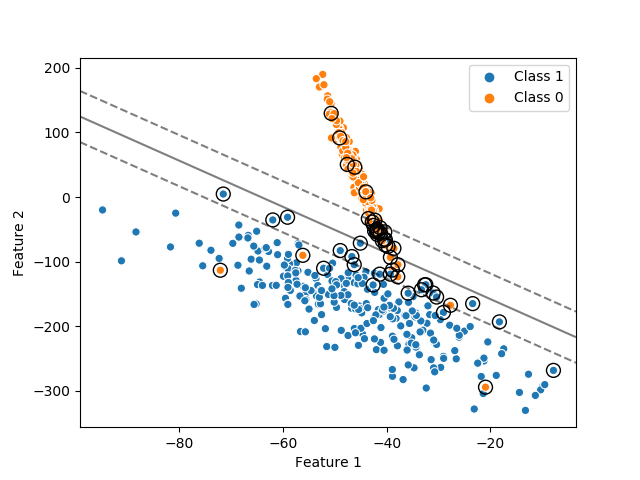
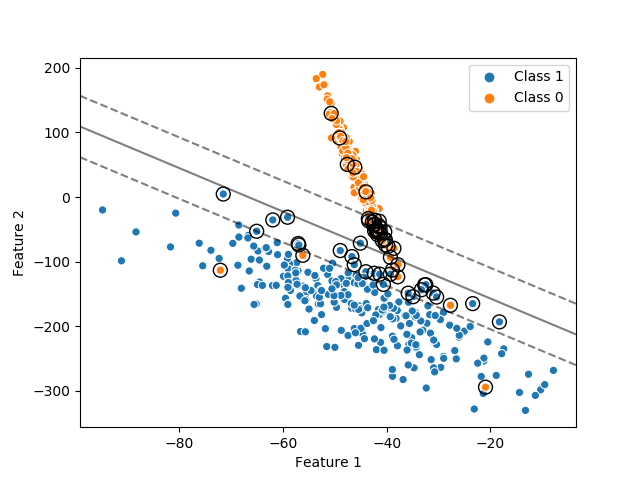
almost done with svm part 1

diff --git a/PA2/pa3_1.py b/PA2/pa3_1.py
@@ -67,6 +67,12 @@ acc_train_data1 = []
 acc_val_data1 = []
 acc_test_data1 = []
 
+# storing the best model parameters (C) and best model validation accuracy
+best_model_C_1 = 0
+best_val_acc_1 = 0
+best_svclassifier_1 = None
+best_sv_1 = None
+
 for i in range(len(C_vals)):
     # training an sklearn SVM using the data
     svclassifier = SVC(C=C_vals[i], kernel='linear')
@@ -79,39 +85,50 @@ for i in range(len(C_vals)):
 
     # finding the validation accuracies
     y_pred_v = svclassifier.predict(X_val)
-    acc_val_data1.append(accuracy(y_pred_v, y_val))
+    ac = accuracy(y_pred_v, y_val)
+    acc_val_data1.append(ac)
+
+    if (ac > best_val_acc_1):
+        best_val_acc_1 = ac
+        best_model_C_1 = C_vals[i]
+        best_svclassifier_1 = svclassifier
+        best_sv_1 = sv
 
     # finding the test accuracies
     y_pred_t = svclassifier.predict(X_test)
     acc_test_data1.append(accuracy(y_pred_t, y_test))
 
-    f = plt.figure()
-    sns.scatterplot(x=X_train[:, 0], y=X_train[:, 1], hue=list(map(getName,y_train)))
+f = plt.figure()
+sns.scatterplot(x=X_train[:, 0], y=X_train[:, 1], hue=list(map(getName,y_train)))
 
-    # getting the axes information of the plot
-    axes = plt.gca()
-    xlim = axes.get_xlim()
-    ylim = axes.get_ylim()
+# getting the axes information of the plot
+axes = plt.gca()
+xlim = axes.get_xlim()
+ylim = axes.get_ylim()
 
-    # creating a grid to help plot the decision function
-    xx = np.linspace(xlim[0], xlim[1], 30)
-    yy = np.linspace(ylim[0], ylim[1], 30)
-    YY, XX = np.meshgrid(yy, xx)
-    xy = np.transpose(np.vstack([XX.ravel(), YY.ravel()]))
-    Z = svclassifier.decision_function(xy).reshape(XX.shape)
+# creating a grid to help plot the decision function
+xx = np.linspace(xlim[0], xlim[1], 30)
+yy = np.linspace(ylim[0], ylim[1], 30)
+YY, XX = np.meshgrid(yy, xx)
+xy = np.transpose(np.vstack([XX.ravel(), YY.ravel()]))
+Z = best_svclassifier_1.decision_function(xy).reshape(XX.shape)
 
-    # plotting decision boundary and margins
-    axes.contour(XX, YY, Z, colors='k', levels=[-1, 0, 1], alpha=0.5, linestyles=['--', '-', '--'])
+# plotting decision boundary and margins
+axes.contour(XX, YY, Z, colors='k', levels=[-1, 0, 1], alpha=0.5, linestyles=['--', '-', '--'])
 
-    # plotting support vectors
-    axes.scatter(sv[:, 0], sv[:, 1], s=100, linewidth=1, facecolors='none', edgecolors='k')
+# plotting support vectors
+axes.scatter(best_sv_1[:, 0], best_sv_1[:, 1], s=100, linewidth=1, facecolors='none', edgecolors='k')
 
-    plt.xlabel("Feature 1")
-    plt.ylabel("Feature 2")
-    plt.savefig("results/svm/DS4_boundary"+str(i))
+plt.xlabel("Feature 1")
+plt.ylabel("Feature 2")
+plt.savefig("results/svm/DS4_boundary"+str(i))
 
-    # evaluating the confusion matrix
-    getConfusion(y_test, y_pred_t, "DS4_"+str(i))
+# evaluating the confusion matrix
+getConfusion(y_test, best_svclassifier_1.predict(X_test), "DS4_best_model")
+
+print("Best model for Dataset 4:")
+print("C:", best_model_C_1)
+print("Validation Accuracy:", best_val_acc_1)
 
 np.savetxt('results/svm/Train_acc_ds4',acc_train_data1,fmt='%.2f')
 np.savetxt('results/svm/Val_acc_ds4',acc_val_data1,fmt='%.2f')
@@ -141,6 +158,12 @@ acc_train_data2 = []
 acc_val_data2 = []
 acc_test_data2 = []
 
+# storing the best model parameters (C) and best model validation accuracy
+best_model_C_2 = 0
+best_val_acc_2 = 0
+best_svclassifier_2 = None
+best_sv_2 = None
+
 for i in range(len(C_vals)):
     # training an sklearn SVM using the data
     svclassifier = SVC(C=C_vals[i], kernel='linear')
@@ -153,39 +176,50 @@ for i in range(len(C_vals)):
 
     # finding the validation accuracies
     y_pred_v = svclassifier.predict(X_val)
-    acc_val_data2.append(accuracy(y_pred_v, y_val))
+    ac = accuracy(y_pred_v, y_val)
+    acc_val_data2.append(ac)
+
+    if (ac > best_val_acc_2):
+        best_val_acc_2 = ac
+        best_model_C_2 = C_vals[i]
+        best_svclassifier_2 = svclassifier
+        best_sv_2 = sv
 
     # finding the test accuracies
     y_pred_t = svclassifier.predict(X_test)
     acc_test_data2.append(accuracy(y_pred_t, y_test))
 
-    f = plt.figure()
-    sns.scatterplot(x=X_train[:, 0], y=X_train[:, 1], hue=list(map(getName,y_train)))
+f = plt.figure()
+sns.scatterplot(x=X_train[:, 0], y=X_train[:, 1], hue=list(map(getName,y_train)))
 
-    # getting the axes information of the plot
-    axes = plt.gca()
-    xlim = axes.get_xlim()
-    ylim = axes.get_ylim()
+# getting the axes information of the plot
+axes = plt.gca()
+xlim = axes.get_xlim()
+ylim = axes.get_ylim()
 
-    # creating a grid to help plot the decision function
-    xx = np.linspace(xlim[0], xlim[1], 30)
-    yy = np.linspace(ylim[0], ylim[1], 30)
-    YY, XX = np.meshgrid(yy, xx)
-    xy = np.transpose(np.vstack([XX.ravel(), YY.ravel()]))
-    Z = svclassifier.decision_function(xy).reshape(XX.shape)
+# creating a grid to help plot the decision function
+xx = np.linspace(xlim[0], xlim[1], 30)
+yy = np.linspace(ylim[0], ylim[1], 30)
+YY, XX = np.meshgrid(yy, xx)
+xy = np.transpose(np.vstack([XX.ravel(), YY.ravel()]))
+Z = best_svclassifier_2.decision_function(xy).reshape(XX.shape)
 
-    # plotting decision boundary and margins
-    axes.contour(XX, YY, Z, colors='k', levels=[-1, 0, 1], alpha=0.5, linestyles=['--', '-', '--'])
+# plotting decision boundary and margins
+axes.contour(XX, YY, Z, colors='k', levels=[-1, 0, 1], alpha=0.5, linestyles=['--', '-', '--'])
 
-    # plotting support vectors
-    axes.scatter(sv[:, 0], sv[:, 1], s=100, linewidth=1, facecolors='none', edgecolors='k')
+# plotting support vectors
+axes.scatter(best_sv_2[:, 0], best_sv_2[:, 1], s=100, linewidth=1, facecolors='none', edgecolors='k')
 
-    plt.xlabel("Feature 1")
-    plt.ylabel("Feature 2")
-    plt.savefig("results/svm/DS5_boundary"+str(i))
+plt.xlabel("Feature 1")
+plt.ylabel("Feature 2")
+plt.savefig("results/svm/DS5_boundary"+str(i))
 
-    # evaluating the confusion matrix
-    getConfusion(y_test, y_pred_t, "DS5_"+str(i))
+# evaluating the confusion matrix
+getConfusion(y_test, best_svclassifier_2.predict(X_test), "DS5_best_model")
+
+print("Best model for Dataset 5:")
+print("C:", best_model_C_2)
+print("Validation Accuracy:", best_val_acc_2)
 
 np.savetxt('results/svm/Train_acc_ds5',acc_train_data2,fmt='%.2f')
 np.savetxt('results/svm/Val_acc_ds5',acc_val_data2,fmt='%.2f')
